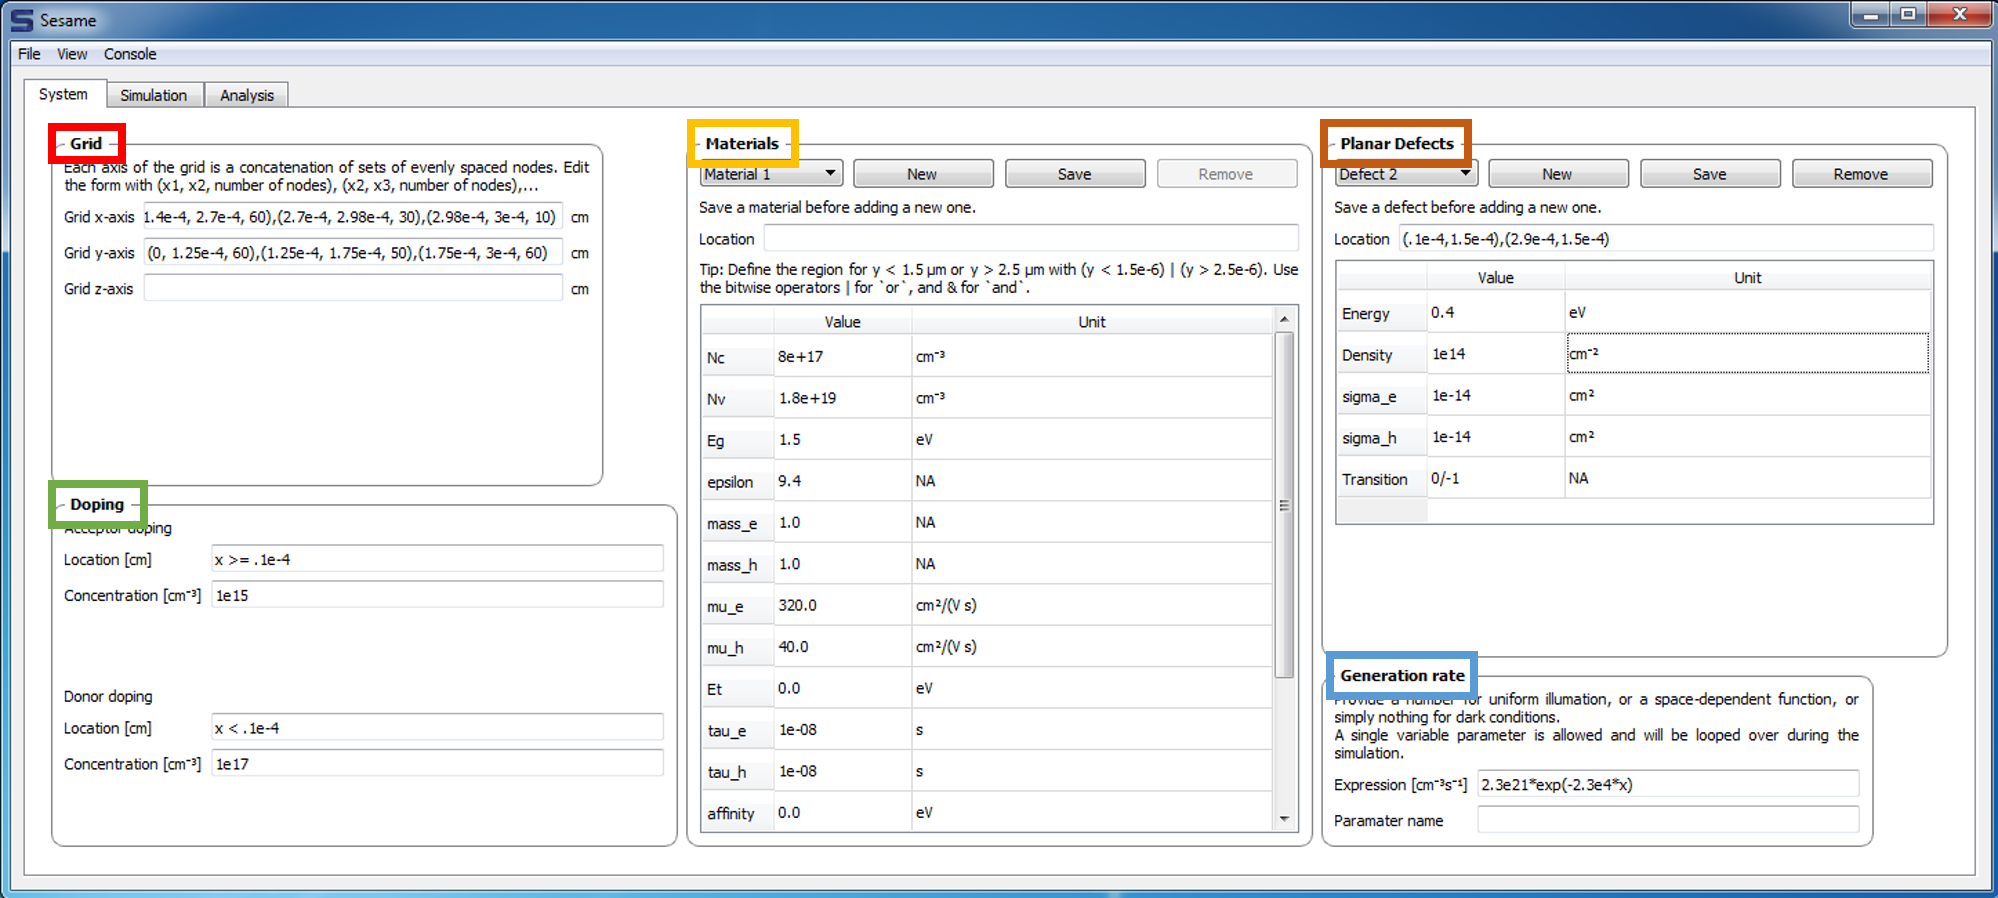
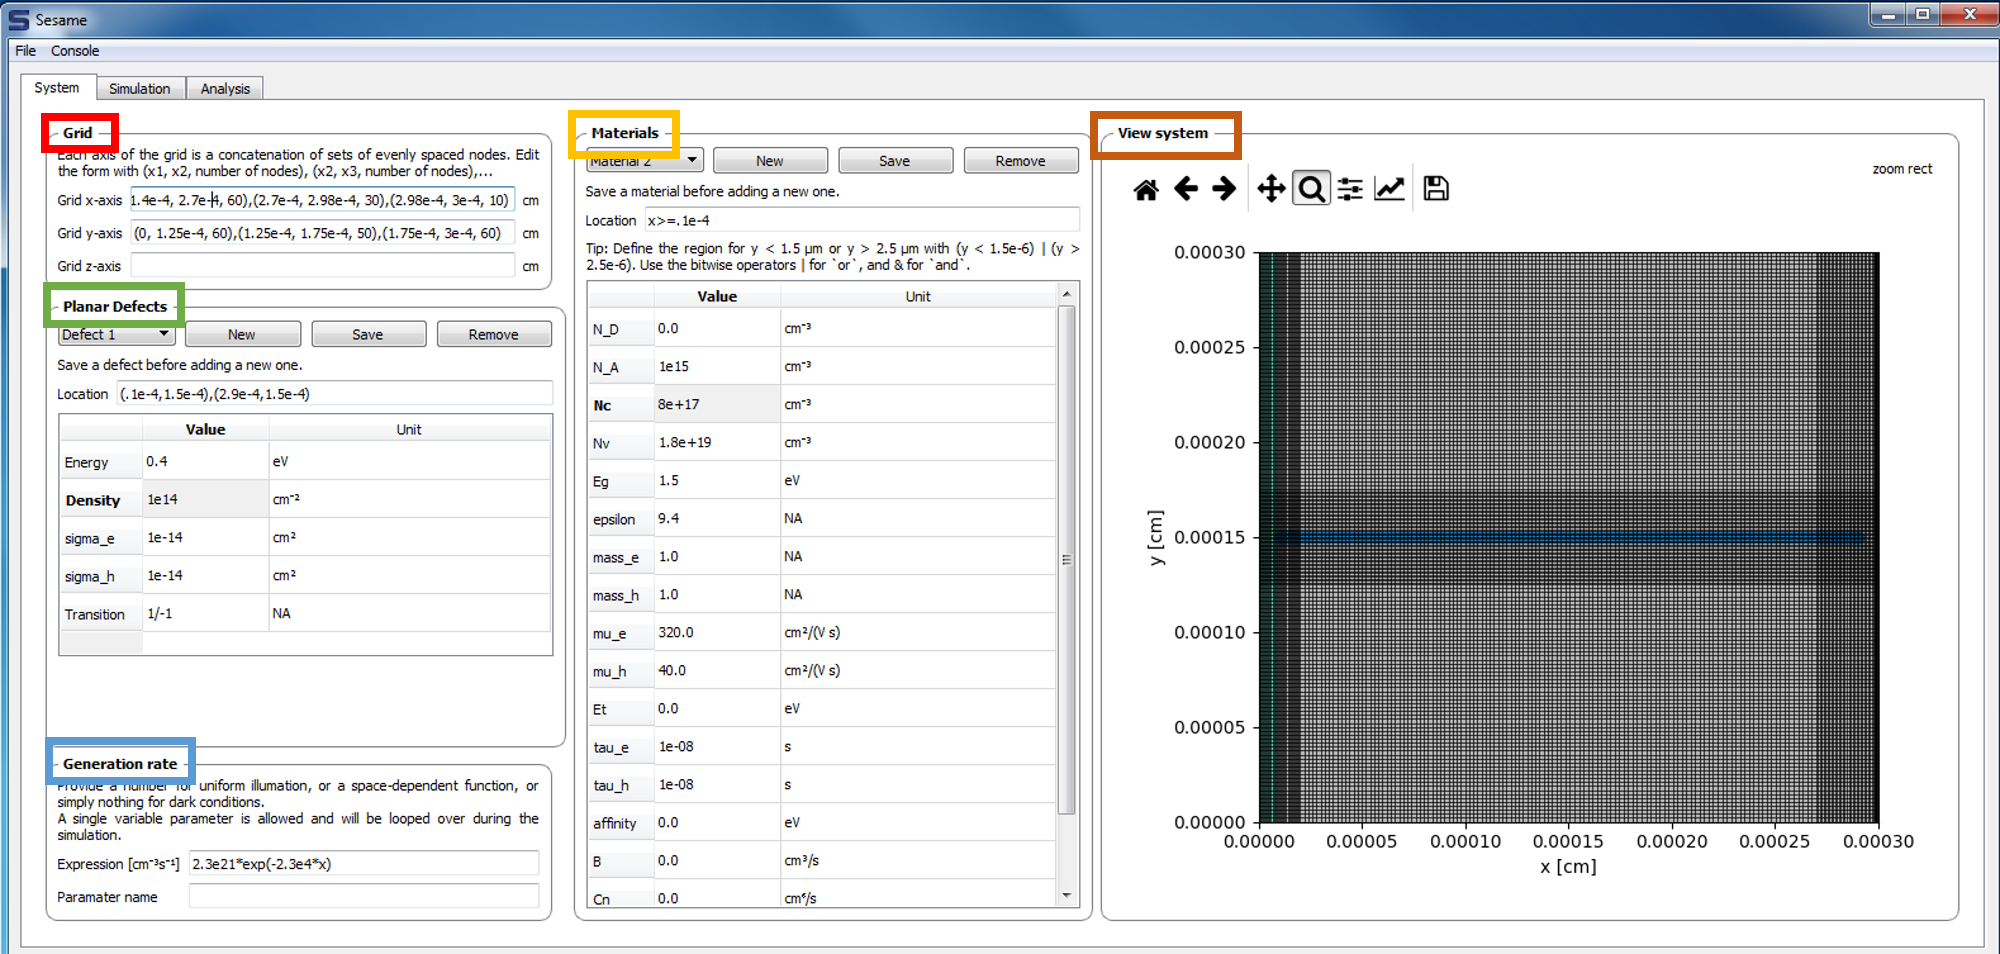
modified load/save data format of GUI.  added/revised documentation

diff --git a/sesame/ui/analysis_tab.py b/sesame/ui/analysis_tab.py
@@ -18,6 +18,7 @@ from .plotbox import *
 from .common import parseSettings, slotError
 from ..analyzer import Analyzer
 from ..plotter import plot
+from .. utils import check_sim_settings
 
 
 class Analysis(QWidget):
@@ -227,8 +228,8 @@ class Analysis(QWidget):
     @slotError("bool")
     def surfacePlot(self, checked):
         # get system
-        #settings = self.table.build.getSystemSettings()
-        #system = parseSettings(settings)
+        settings = self.table.build.getSystemSettings()
+        gui_system = parseSettings(settings)
 
         # get data from file
         files = [self.filesList[self.dataList.row(i)]\
@@ -255,6 +256,9 @@ class Analysis(QWidget):
 
             #data = np.load(fileName)
             system, data = sesame.load_sim(fileName)
+
+            # check to see if data file sim settings are the same as gui sim settings!
+            check_sim_settings(system, gui_system)
 
             # make an instance of the Analyzer
             az = Analyzer(system, data)

diff --git a/sesame/ui/plotbox.py b/sesame/ui/plotbox.py
@@ -60,6 +60,7 @@ class MplWindow(QWidget):
 
         try:
             self.ax.clear()
+            self.toolbar.update()
             # find all relevant coordinates
             nx, ny = sys.nx, sys.ny
             xpts, ypts = sys.xpts, sys.ypts
@@ -79,7 +80,8 @@ class MplWindow(QWidget):
                 y.append(indices[:,1])
 
                 if sys.dimension == 1:
-                    self.ax.plot(xpts[x], np.ones_like(xpts[x])/2., lw=50)
+                    self.ax.plot(xpts[x[-1]], np.ones_like(xpts[x[-1]]) / 2., lw=50)
+                    #self.ax.plot(xpts[x], np.ones_like(xpts[x])/2., lw=50)
                     self.ax.margins(0)
             # create an array of fake data to be plotted
             d = np.zeros((nx, ny)) - 1

diff --git a/sesame/utils.py b/sesame/utils.py
@@ -463,3 +463,7 @@ def load_sim(filename):
     data = f.read()
     sys, result = pickle.loads(data)
     return sys, result
+
+
+def check_sim_settings(system1, system2):
+    x = 1

diff --git a/doc/gui/system.rst b/doc/gui/system.rst
@@ -9,14 +9,15 @@ The first step in performing simulations with the GUI is defining the system.  T
 .. image:: system.*
    :align: center
 
+
 **Grid**:  
 The upper left frame contains inputs for the user-defined grid.  The dimensionality of the system is inferred from the grid entries: entering a grid for the x-axis only implies a 1-d system.  Adding a grid for the y-axis implies a 2-d system, etc.  
 
-**Doping**:  
-The lower right frame is used to define the doping.  The GUI assumes there is one value for acceptor and donor doping, and allows the user to specify the doping value and location for each dopant type.  Note that building a system with a python script allows for more flexibility than using the GUI.
-
 **Materials**:  
 The middle frame contains the entries for the bulk material properties.  Multiple materials can be added to the system.  Their location is specified in the ``Location`` field.  The material parameters (and assumed units) are shown below.
+
+**View system**:  
+Provides a depiction of the system geometry, including the x and y meshes, different materials regions, and the planar defects (grain boundaries).
 
 **Planar Defects**:  
 Planar defects are added in the upper right frame.  For a 1-d system, a planar defect location is specified by 1 point.  For a 2-d system, a planar defect is specified by 2 points.  The energy level of the defect (with respect to the intrinsic energy level), the defect density, capture cross sections, and charge states are specified here.

diff --git a/doc/gui/scripts.rst b/doc/gui/scripts.rst
@@ -1,7 +1,19 @@
 Running scripts in the GUI
 ---------------------------
 
-import os
-os.chdir("examples/tutorial1")
-exec(open("1d_homojunction.py").read())
+The Sesame GUI contains a full Python distribution.  This can be accessed by selecting the ``Console -> Show Console`` option from the window.  An IPython console is displayed, as shown below.  Below we show how Sesame scripts may be run from the python console:
+
+.. image:: ipython.*
+   :align: center
+
+The first step is to navigate to the directory with the python script.  This is accomplished with the following commands, entered into the IPython prompt::
+
+    import os
+    os.chdir("examples/tutorial1")
+
+Next the python script is called with the following command::
+
+    exec(open("1d_homojunction.py").read())
+
+The example scripts and GUI input files provided in the examples/tutorials folders define identical simulations.  The user can modify one or the other as needed, and run either one within the GUI.  Scripts provide more flexibility for system definition and for simulation actions, e.g. looping over several variables.
 

diff --git a/doc/gui/analysis.rst b/doc/gui/analysis.rst
@@ -5,7 +5,7 @@ After successful completion of the simulation, the ``Analysis tab`` provides too
 
 
 
-.. image:: analysis1.*
+.. image:: analysis.*
    :align: center
 
 **Import data**
